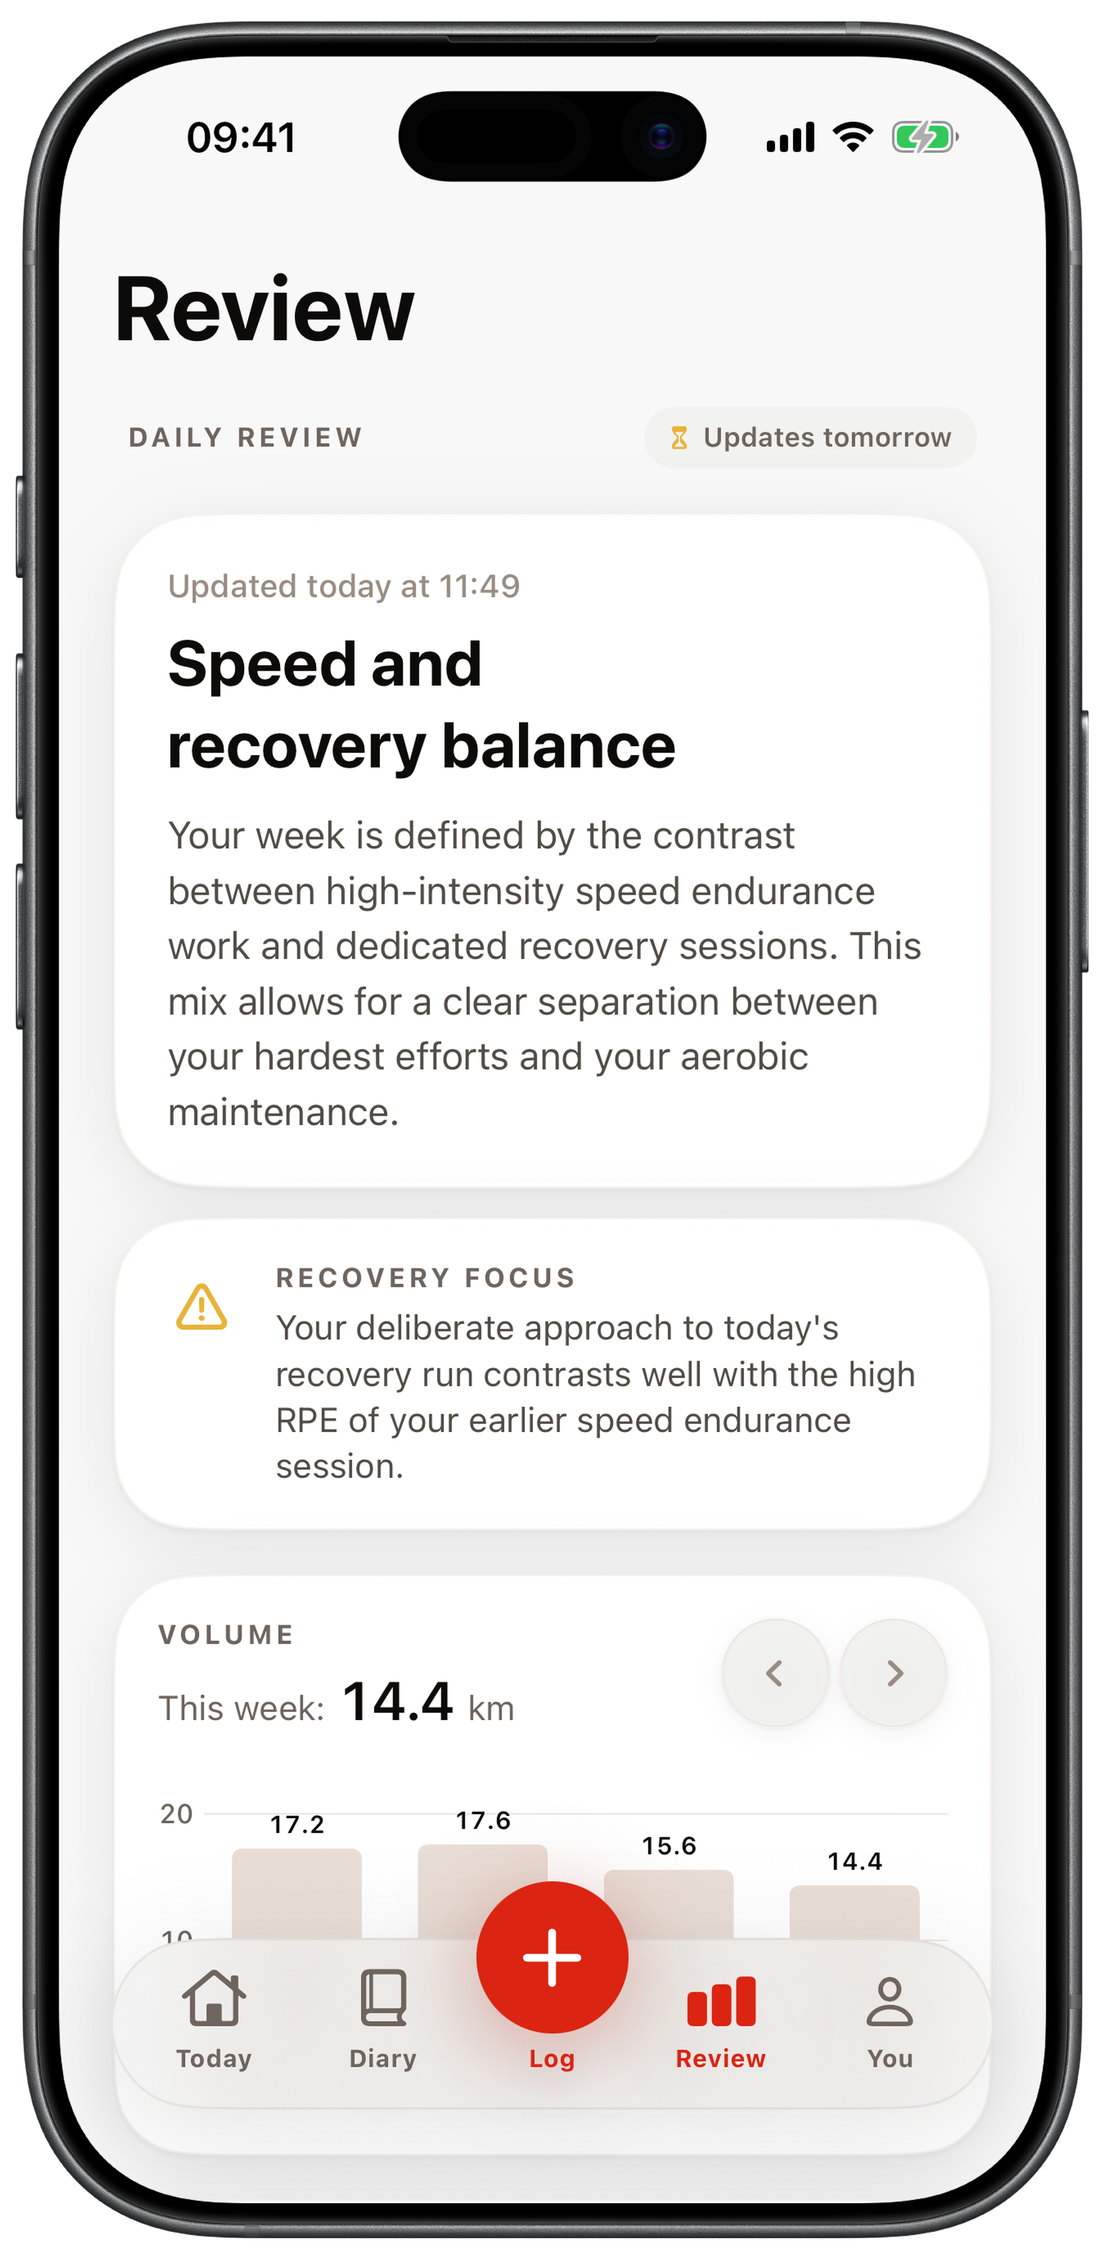
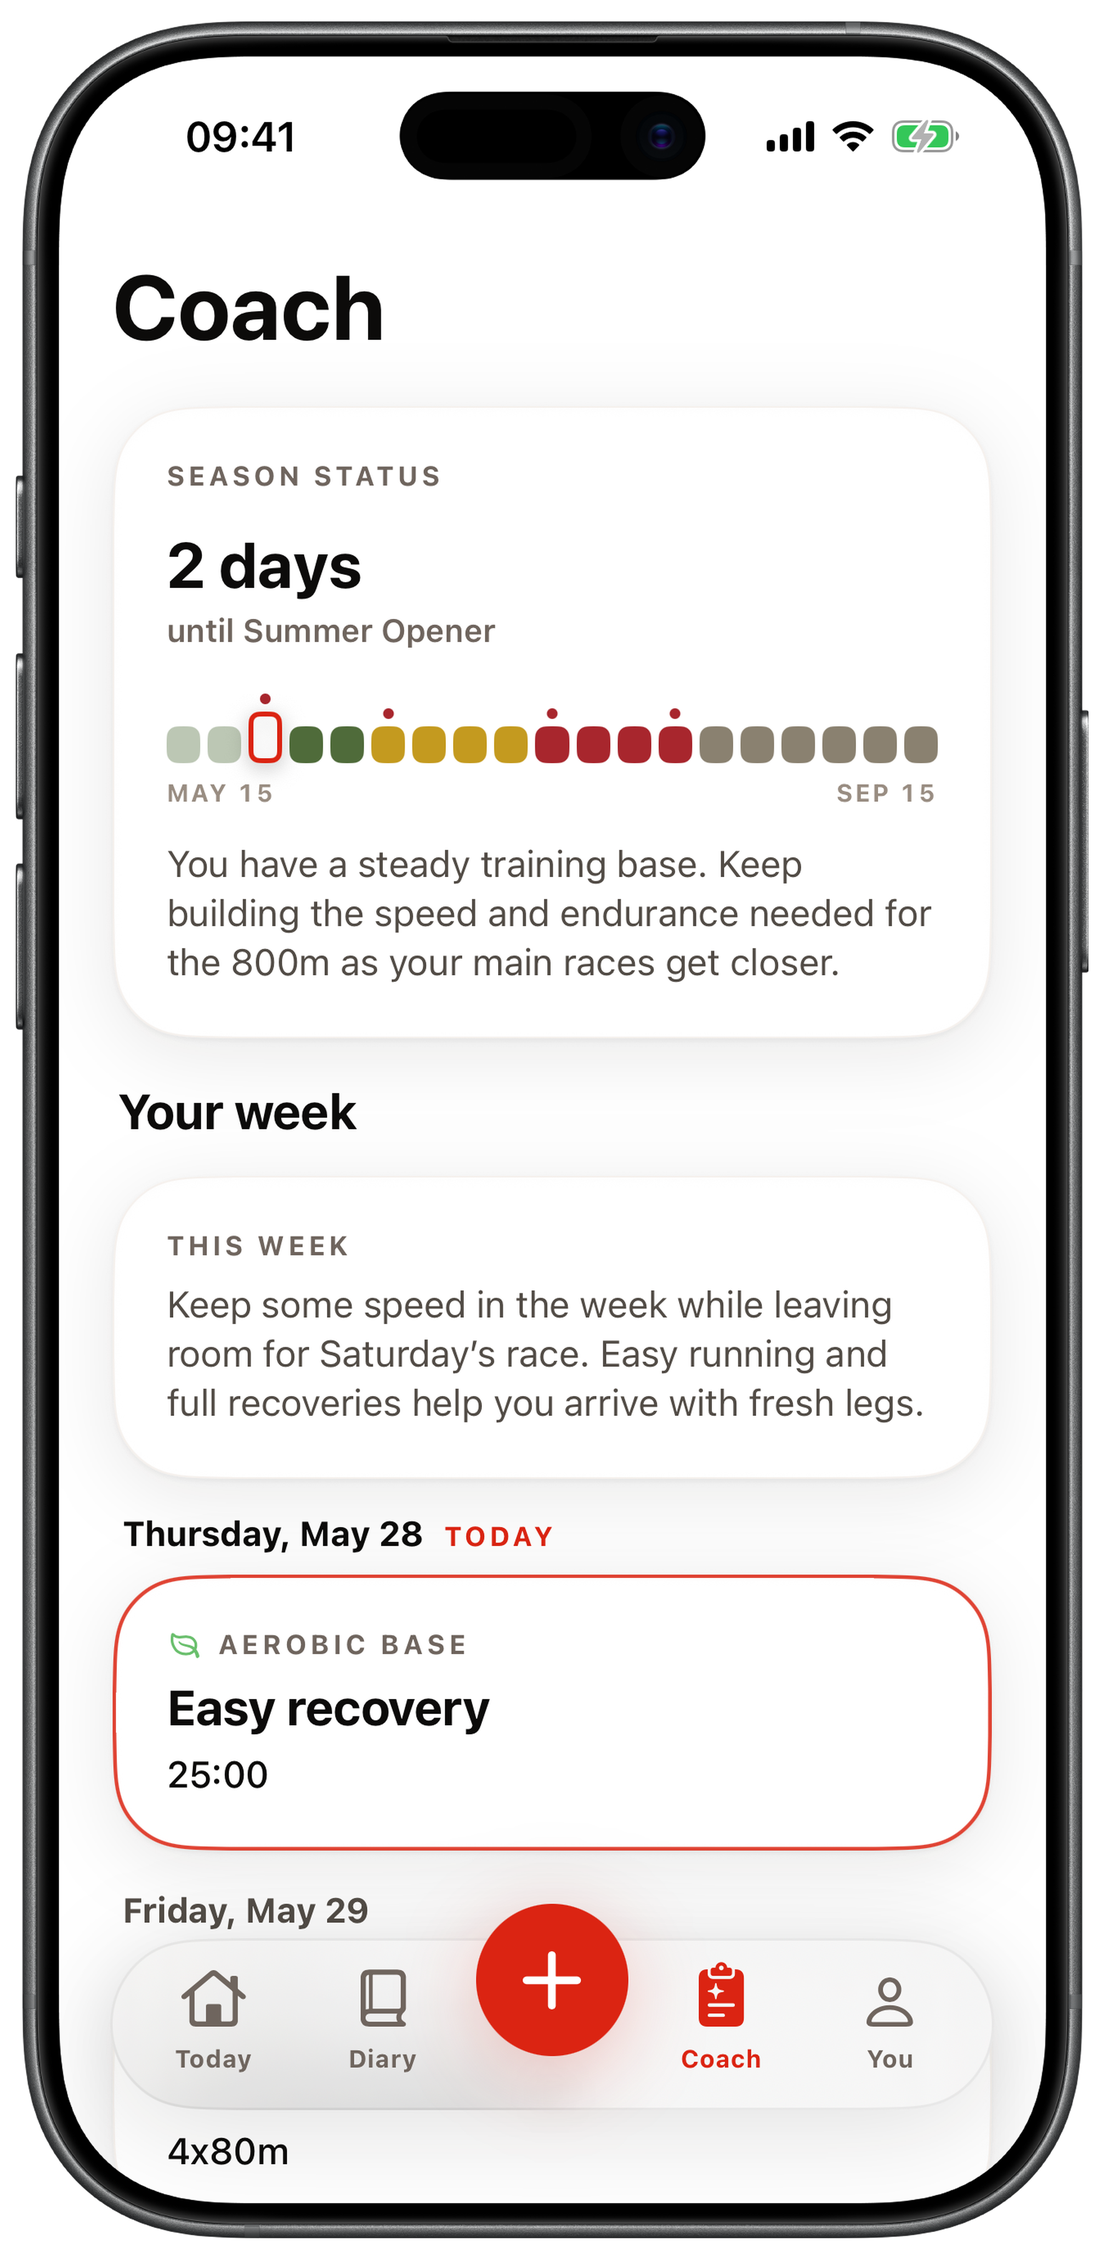
Refresh website for StrideBuddy 1.1.0

diff --git a/index.html b/index.html
@@ -4,7 +4,7 @@
   <meta charset="utf-8">
   <meta name="viewport" content="width=device-width, initial-scale=1">
   <title>StrideBuddy | A training diary for track athletes</title>
-  <meta name="description" content="Log track sessions without forcing them into a generic running app. StrideBuddy handles reps, splits, strength work, races, Daily Review feedback, and records.">
+  <meta name="description" content="Log track sessions without forcing them into a generic running app. StrideBuddy brings reps, splits, strength work, races, records and weekly Coach plans into one diary.">
   <!--
     Apex, no extension. That is what the host serves: Cloudflare Pages strips
     the extension, so /index.html 307s here and /support.html 307s to /support.
@@ -30,7 +30,7 @@
   <meta property="og:site_name" content="StrideBuddy">
   <meta property="og:url" content="https://stridebuddy.app/">
   <meta property="og:title" content="StrideBuddy | A training diary for track athletes">
-  <meta property="og:description" content="Log reps, splits, strength work, and races in one track-specific diary. Review recent training and keep every record in view.">
+  <meta property="og:description" content="Log track training and races in one diary. Coach plans your week around your event, recent training and season.">
   <meta property="og:image" content="https://stridebuddy.app/assets/stridebuddy_icon.png">
   <meta property="og:image:width" content="1024">
   <meta property="og:image:height" content="1024">
@@ -76,15 +76,15 @@
       "https://stridebuddy.app/assets/screenshots/race_calendar.png",
       "https://stridebuddy.app/assets/screenshots/volume.png"
     ],
-    "description": "A training diary for competitive track and field athletes. Log reps, recoveries, splits, strength work and races, review your recent training, and keep personal bests and rep records in view.",
+    "description": "A training diary for competitive track and field athletes. Log reps, recoveries, splits, strength work and races, plan your week with Coach, and keep personal bests and rep records in view.",
     "featureList": [
       "Structured track session logging with reps, recoveries and splits",
       "Hurdles and steeplechase reps kept distinct from flat distances",
       "Strength, road, trail and race logging",
       "Personal bests and rep records",
       "Planned sessions and a race calendar",
-      "Weekly volume and training mix from your own entries",
-      "Daily Review feedback on recent training",
+      "Weekly running volume from your logged sessions",
+      "Weekly Coach plans built around modern periodization",
       "Account sync across devices with offline access"
     ],
     "offers": {
@@ -611,7 +611,7 @@
         <a class="navlink" href="#why">Why StrideBuddy</a>
         <a class="navlink" href="#features">Features</a>
         <a class="navlink" href="#plan">Plan</a>
-        <a class="navlink" href="#review">Review</a>
+        <a class="navlink" href="#coach">Coach</a>
         <a class="navlink" href="#records">Records</a>
         <a class="navlink" href="#races">Races</a>
         <a class="btn btn-primary nav-cta" href="https://apps.apple.com/app/apple-store/id6760190939?pt=128627634&amp;ct=website&amp;mt=8" aria-label="Download StrideBuddy on the App Store">Download</a>
@@ -628,8 +628,8 @@
           <p class="eyebrow">Track &amp; field training diary</p>
           <h1>A training diary that understands track.</h1>
           <p class="lede">
-            Log reps, splits, races, and strength work without wrestling with a generic running app.
-            Review your recent training with Daily Review and see your reps and races together in Records.
+            Log reps, splits, races and strength work in one diary.
+            Coach plans your week around your event, recent training and season. Keep your reps and race records together.
           </p>
           <div class="hero-cta">
             <a class="btn btn-primary" href="https://apps.apple.com/app/apple-store/id6760190939?pt=128627634&amp;ct=website&amp;mt=8">Download on the App Store</a>
@@ -732,8 +732,8 @@
             <div class="fmark" aria-hidden="true">
               <svg viewBox="0 0 24 24" fill="none" stroke="currentColor" stroke-width="2" stroke-linecap="round" stroke-linejoin="round"><path d="M4 5a2 2 0 0 1 2-2h10a2 2 0 0 1 2 2v14a2 2 0 0 0-2-2H6a2 2 0 0 0-2 2z"/><path d="M18 17h2V7h-2"/><path d="M8 8h6M8 12h4"/></svg>
             </div>
-            <h3>A review of your recent training</h3>
-            <p>When there is enough in your diary, Daily Review gives you a practical read on your recent training.</p>
+            <h3>A week that fits your season</h3>
+            <p>Coach uses modern periodization to change your training focus through the season. Your recent training helps it choose the demands of each week.</p>
           </article>
 
         </div>
@@ -751,15 +751,15 @@
 
         <div class="shots">
           <div class="shot">
-            <img class="phone" src="assets/screenshots/central_log.png" width="1800" height="3680" alt="StrideBuddy's Add a session tray, showing the five session types" loading="lazy">
+            <img class="phone" src="assets/screenshots/central_log.png" width="1800" height="3680" alt="StrideBuddy's logging menu with Structured, Continuous, Strength, Race and Quick Note" loading="lazy">
             <div class="cap">
               <h3>One place to start</h3>
-              <p>Choose continuous, structured, strength, race, or a quick note from one menu.</p>
+              <p>Choose Structured, Continuous, Strength or Race. Use Quick Note for anything else you want to record.</p>
             </div>
           </div>
 
           <div class="shot">
-            <img class="phone" src="assets/screenshots/log_strength.png" width="1800" height="3680" alt="Exercise picker for a strength session in StrideBuddy" loading="lazy">
+            <img class="phone" src="assets/screenshots/log_strength.png" width="1800" height="3680" alt="Strength logging form in StrideBuddy" loading="lazy">
             <div class="cap">
               <h3>Strength</h3>
               <p>Build the session by tapping exercises instead of filling out a long form.</p>
@@ -789,8 +789,8 @@
           </p>
           <div class="recap-points" aria-label="What you can plan in StrideBuddy">
             <div class="recap-point"><strong>Log or plan</strong><span>Log covers today and any earlier day. Plan covers tomorrow onwards, as far as a year out.</span></div>
-            <div class="recap-point"><strong>The same session types</strong><span>Continuous, structured, strength, race, or a quick note.</span></div>
-            <div class="recap-point"><strong>Waiting on Today</strong><span>A planned session sits on Today and in your Diary until you log the result against it.</span></div>
+            <div class="recap-point"><strong>The same session types</strong><span>Structured, Continuous, Strength, Race and Quick Note.</span></div>
+            <div class="recap-point"><strong>Waiting on Today</strong><span>Find upcoming sessions on Today and in the Plan page. Log the result when you have done the session.</span></div>
             <div class="recap-point"><strong>Races go to the calendar</strong><span>Plan a race and it lands in your race calendar instead.</span></div>
           </div>
         </div>
@@ -801,26 +801,53 @@
       </div>
     </section>
 
-    <!-- ============ REVIEW (Daily Review) ============ -->
-    <section id="review" class="section recap">
+    <!-- ============ COACH ============ -->
+    <section id="coach" class="section recap">
       <div class="wrap recap-grid">
         <div class="recap-copy">
-          <p class="eyebrow">Review</p>
-          <h2>Finish the log, then read the session back.</h2>
-          <p>
-            When there is enough recent training to review, Daily Review uses your sessions, notes,
-            and event profile to give you specific feedback without reducing the work to a score.
-          </p>
-          <div class="recap-points" aria-label="What Daily Review includes">
-            <div class="recap-point"><strong>Updates with your diary</strong><span>New workouts can update your review, up to ten times a day.</span></div>
-            <div class="recap-point"><strong>About this workout</strong><span>It can discuss the stimulus, execution, effort, and how the session felt.</span></div>
-            <div class="recap-point"><strong>Connected to your week</strong><span>A compact recent history adds context without sending your entire diary.</span></div>
-            <div class="recap-point"><strong>Feedback, not a grade</strong><span>You get useful takeaways and things to watch, not a ranking.</span></div>
+          <p class="eyebrow">Coach</p>
+          <h2>Your training week, built for your season.</h2>
+          <p>Coach builds a weekly plan from your event, recent training, available days and races. The season sets the direction. Your diary helps it choose how much work to prescribe.</p>
+          <div class="recap-points" aria-label="How Coach plans your training">
+            <div class="recap-point"><strong>Season status</strong><span>Read where you are in the season and what your training is working toward.</span></div>
+            <div class="recap-point"><strong>This week</strong><span>Understand the focus of the week before you open its sessions.</span></div>
+            <div class="recap-point"><strong>Your event and races</strong><span>Training reflects your event and the importance of the races in your calendar.</span></div>
+            <div class="recap-point"><strong>You choose when to build</strong><span>Ask for your week when you are ready. Saved plans remain available offline.</span></div>
           </div>
+          <p>Coach uses AI to write the plan within event-specific training rules. It is a free beta feature and needs an internet connection to build or change a plan.</p>
         </div>
-
         <div class="recap-stage">
-          <img class="phone" src="assets/screenshots/review.png" width="1800" height="3680" alt="Daily Review feedback for a workout in StrideBuddy" loading="lazy">
+          <img class="phone" src="assets/screenshots/review.png" width="1800" height="3680" alt="Coach showing Season status, This week and a saved weekly training plan" loading="lazy">
+        </div>
+      </div>
+    </section>
+
+    <section id="periodization" class="section recap band">
+      <div class="wrap recap-grid reverse">
+        <div class="recap-copy">
+          <p class="eyebrow">Modern periodization</p>
+          <h2>Change the focus as your season progresses.</h2>
+          <p>Periodization means changing the focus of training over time. Build a base, develop the qualities your event needs, then prepare for racing. Easier weeks and recovery are part of the plan.</p>
+          <p>Coach keeps useful training qualities in the plan as the main focus changes. It considers your recent sessions and race priorities when choosing the next week's work.</p>
+          <p>A return from a break starts with a gradual return to training. A nearby race can change the week's preparation. The plan follows your situation.</p>
+        </div>
+        <div class="recap-stage">
+          <img class="phone" src="assets/screenshots/periodization.png" width="1800" height="3680" alt="Coach's periodization introduction showing Base, Build, Sharpen and Compete" loading="lazy">
+        </div>
+      </div>
+    </section>
+
+    <section id="coach-session" class="section recap">
+      <div class="wrap recap-grid">
+        <div class="recap-copy">
+          <p class="eyebrow">Each session has a purpose</p>
+          <h2>Know what to do and why it belongs.</h2>
+          <p>Open a Coach session to see its reps, recoveries and execution cues. Read what the session develops and how it supports your event.</p>
+          <p>Coach can include time or pace ranges when your recent training and personal bests support them. A session can also come without a numerical target.</p>
+          <p>Use the planned session to start your log when its day arrives. Record the result you actually ran.</p>
+        </div>
+        <div class="recap-stage tint-moss">
+          <img class="phone" src="assets/screenshots/coach_session.png" width="1800" height="3680" alt="A Coach session showing its purpose, repetitions, recoveries and execution advice" loading="lazy">
         </div>
       </div>
     </section>
@@ -832,20 +859,19 @@
           <p class="eyebrow">Volume</p>
           <h2>How much you trained, counted from the diary.</h2>
           <p>
-            Below the Daily Review, the same tab adds up what you logged: a bar for each week,
-            the sessions behind any week you open, and the mix of work across the month. None
-            of it is estimated.
+            The You tab adds up the running distance you logged, with a bar for each week.
+            Open a week to see its days and sessions.
           </p>
-          <div class="recap-points" aria-label="What the Review tab counts">
+          <div class="recap-points" aria-label="What the weekly volume chart shows">
             <div class="recap-point"><strong>Week by week</strong><span>Four weeks on screen at a time, and you can page back through earlier ones.</span></div>
             <div class="recap-point"><strong>Open a week</strong><span>Tap a bar to see its days and the sessions inside them.</span></div>
-            <div class="recap-point"><strong>Training mix</strong><span>Which kinds of session your month was made of.</span></div>
+            <div class="recap-point"><strong>From your entries</strong><span>The chart uses your logged distance.</span></div>
             <div class="recap-point"><strong>Counted, not scored</strong><span>No readiness score and no training load index. These are your own entries, added up.</span></div>
           </div>
         </div>
 
         <div class="recap-stage tint-purple">
-          <img class="phone" src="assets/screenshots/volume.png" width="1800" height="3680" alt="Weekly volume chart and one week's sessions in StrideBuddy's Review tab" loading="lazy">
+          <img class="phone" src="assets/screenshots/volume.png" width="1800" height="3680" alt="Weekly volume chart and one week's sessions in StrideBuddy's You tab" loading="lazy">
         </div>
       </div>
     </section>
@@ -905,7 +931,7 @@
       <div class="wrap">
         <div class="section-head">
           <p class="eyebrow">How it works</p>
-          <h2>Save the session in three quick steps.</h2>
+          <h2>Keep a clear record of your training.</h2>
         </div>
         <div class="steps">
           <article class="step">
@@ -921,7 +947,7 @@
           <article class="step">
             <div class="n">3</div>
             <h3>Review the result</h3>
-            <p>Read the Daily Review feedback, check your records, and see how the workout fits into your week.</p>
+            <p>Find the session in your Diary, check your records and see how much running you logged that week.</p>
           </article>
         </div>
       </div>
@@ -994,7 +1020,7 @@
           <a href="#why">Why StrideBuddy</a>
           <a href="#features">Features</a>
           <a href="#plan">Plan</a>
-          <a href="#review">Review</a>
+          <a href="#coach">Coach</a>
           <a href="#records">Records</a>
           <a href="#races">Races</a>
           <a href="support">Support</a>

diff --git a/s/community/index.html b/s/community/index.html
@@ -47,17 +47,17 @@
 </head>
 <body>
   <header class="topbar">
-    <div class="wrap"><a href="../../index.html" aria-label="StrideBuddy home"><picture><source media="(prefers-color-scheme: dark)" srcset="../../assets/stridebuddy_lockup_dark.png"><img src="../../assets/stridebuddy_lockup.png" alt="StrideBuddy"></picture></a></div>
+    <div class="wrap"><a href="/" aria-label="StrideBuddy home"><picture><source media="(prefers-color-scheme: dark)" srcset="../../assets/stridebuddy_lockup_dark.png"><img src="../../assets/stridebuddy_lockup.png" alt="StrideBuddy"></picture></a></div>
   </header>
   <main>
     <div class="wrap">
       <h1>Keep your track training in one diary.</h1>
-      <p class="lede">StrideBuddy records a session in the same terms you and your coach use at the track. Log reps, splits, races, and strength work, then read the Daily Review feedback after you save.</p>
+      <p class="lede">StrideBuddy records a session in the same terms you and your coach use at the track. Log reps, splits, races and strength work. Coach plans your week around your event, recent training and season.</p>
 
       <a class="cta" href="https://apps.apple.com/app/apple-store/id6760190939?pt=128627634&amp;ct=community&amp;mt=8">Download on the App Store</a>
       <p class="muted">Available for iPhone.</p>
 
-      <a class="back" href="../../index.html">← Back to stridebuddy.app</a>
+      <a class="back" href="/">← Back to stridebuddy.app</a>
     </div>
   </main>
 </body>

diff --git a/README.md b/README.md
@@ -9,7 +9,7 @@ no dependencies, no tracking) styled with the app's **StrideBuddy Design System*
 
 | File | Purpose |
 | --- | --- |
-| `index.html` | The one-page landing site (hero, problem, features, logging, Daily Review, records, how-it-works, credibility, CTA). |
+| `index.html` | The one-page landing site (hero, problem, features, logging, Coach, periodization, records, how-it-works, credibility, CTA). |
 | `support.html` | Support / contact page. |
 | `terms.html` | Terms of use and AI disclosure. |
 | `privacy.html` | Privacy policy. |
@@ -273,13 +273,15 @@ The page uses real app screenshots exported with a transparent device frame:
 | --- | --- | --- |
 | `assets/screenshots/today.png` | Today | Hero (layered inside `assets/iphone-17-black-bezel.png`) |
 | `assets/screenshots/central_log.png` | Add a session tray, Log face | Logging section |
-| `assets/screenshots/log_strength.png` | Strength logging chip picker | Logging section |
+| `assets/screenshots/log_strength.png` | Strength logging form | Logging section |
 | `assets/screenshots/log_structured.png` | Structured track-session logging | Logging section |
 | `assets/screenshots/central_plan.png` | Add a session tray, Plan face | Plan section |
-| `assets/screenshots/review.png` | Review tab / Daily Review feedback | Review section |
-| `assets/screenshots/volume.png` | Review tab / weekly volume and training mix | Volume section |
+| `assets/screenshots/review.png` | Coach / Season status and weekly plan | Coach section |
+| `assets/screenshots/volume.png` | You / weekly volume | Volume section |
 | `assets/screenshots/records.png` | Records / speed curve | Records section |
 | `assets/screenshots/race_calendar.png` | Race calendar | Races section |
+| `assets/screenshots/periodization.png` | Coach periodization introduction | Periodization section |
+| `assets/screenshots/coach_session.png` | Coach session detail | Session purpose section |
 | `assets/screenshots/diary.png` | Diary week view | Unused on the page; kept in sync for the App Store posters |
 
 Every file above is the composite: the raw screen scaled into the device frame,
